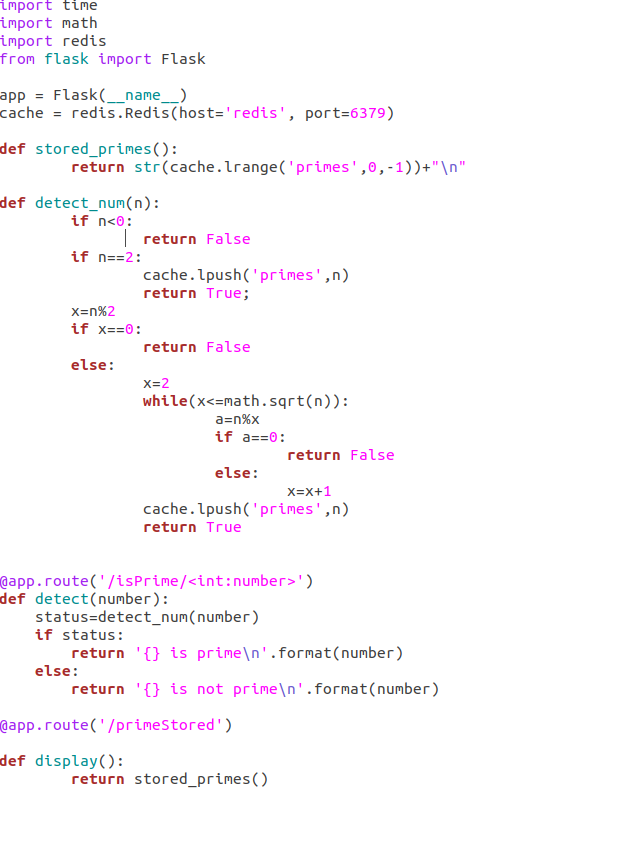
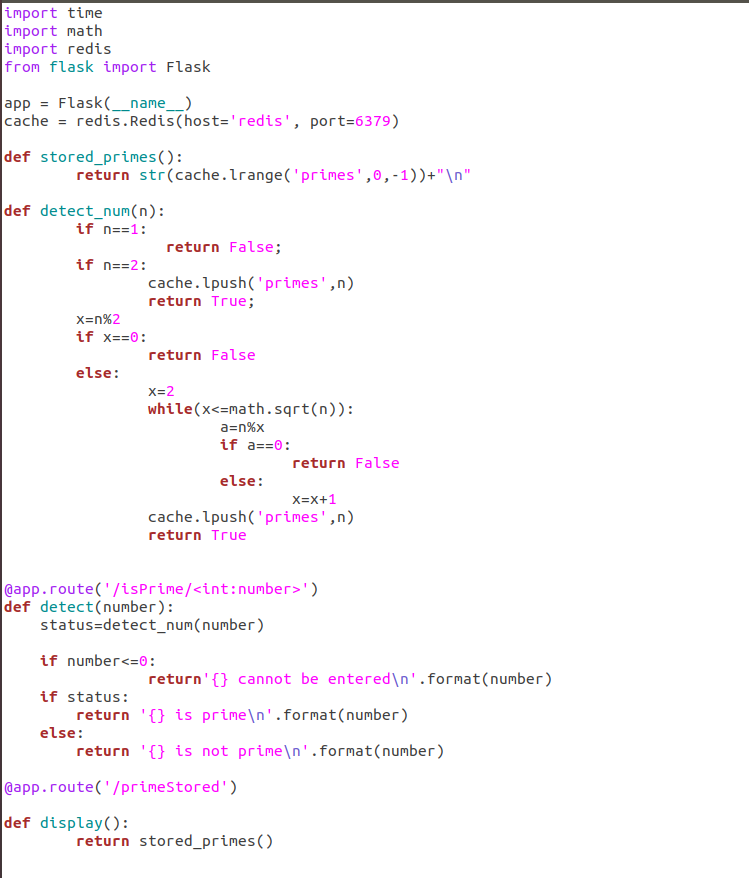
add some white box test and srceenshot

diff --git a/Compx341_A4/app.py b/Compx341_A4/app.py
@@ -10,8 +10,8 @@ def stored_primes():
 	return str(cache.lrange('primes',0,-1))+"\n"
 
 def detect_num(n):
-        if n<0:
-                return False
+        if n==1:
+                  return False;
         if n==2:
                 cache.lpush('primes',n)
                 return True;
@@ -33,6 +33,9 @@ def detect_num(n):
 @app.route('/isPrime/<int:number>')
 def detect(number):
     status=detect_num(number)
+    
+    if number<=0:
+                return'{} cannot be entered\n'.format(number)
     if status:
         return '{} is prime\n'.format(number)
     else:
